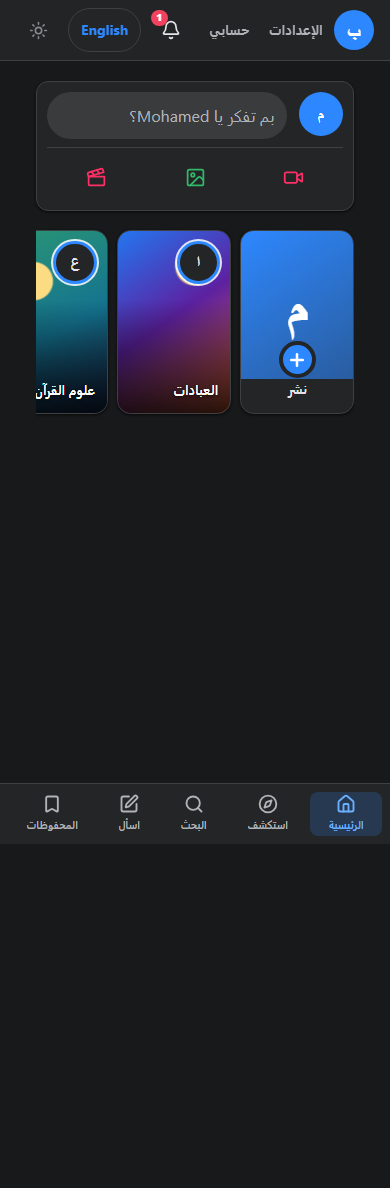
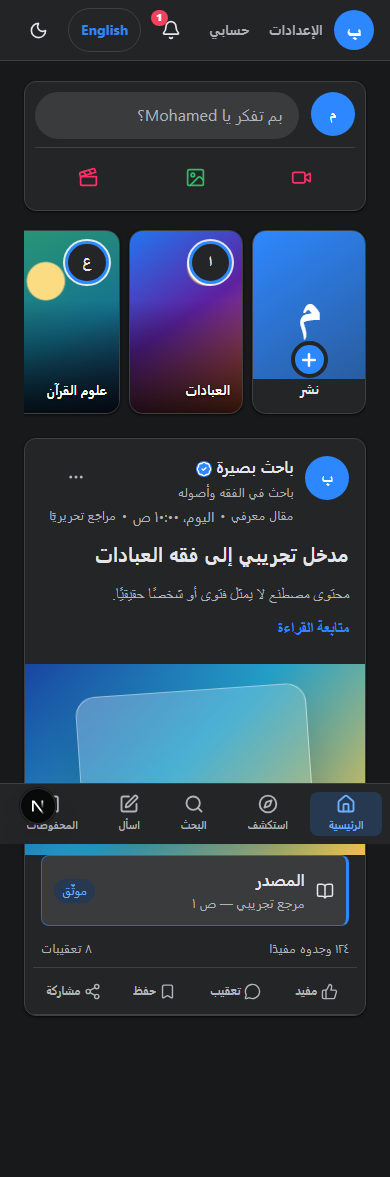
test(qa): verify composer dialog and feed spacing

diff --git a/e2e/stitch-visual.e2e.ts b/e2e/stitch-visual.e2e.ts
@@ -22,7 +22,7 @@ test.describe("Mounir Stitch shell visual contract", () => {
     await expect(actions.locator(".shell-control")).toHaveCount(2);
     await expect(actions.locator(".app-shell__notifications")).toHaveCount(1);
     await expect(page.locator("#shell-search-query")).toHaveAttribute("placeholder", /ابحث/);
-    await expect(page.locator("#feed-composer-input")).toHaveAttribute("placeholder", "بم تفكر يا Mohamed؟");
+    await expect(page.locator(".feed-composer__prompt")).toHaveText("بم تفكر يا Mohamed؟");
     await expect(page.locator(".feed-composer__quick-actions button")).toHaveCount(3);
     await expect(page.locator(".feed-composer__quick-actions button[aria-label='إنشاء مقطع']")).toBeVisible();
     await expect(page.locator(".feed-composer__quick-actions button[aria-label='إضافة صورة']")).toBeVisible();
@@ -99,6 +99,41 @@ test.describe("Mounir Stitch shell visual contract", () => {
     await query.press("Enter");
     await expect(page).toHaveURL(/\/search\?q=%D9%85%D8%AF%D8%AE%D9%84$/);
     await expect(page.locator("main h1")).toBeVisible();
+  });
+
+  test("composer prompt opens an accessible dialog and stories scroll without visible chrome", async ({ page, browserName }) => {
+    await page.setViewportSize({ width: 1280, height: 900 });
+    await page.goto("/");
+
+    const prompt = page.locator(".feed-composer__prompt");
+    await prompt.click();
+    const dialog = page.getByRole("dialog", { name: "إنشاء منشور" });
+    await expect(dialog).toBeVisible();
+    const editor = dialog.locator("#feed-composer-input");
+    await expect(editor).toBeFocused();
+    await expect(dialog.getByRole("button", { name: "نشر" })).toBeDisabled();
+    await editor.fill("مشاركة معرفية تجريبية للاختبار");
+    await expect(dialog.getByRole("button", { name: "نشر" })).toBeEnabled();
+    await page.keyboard.press("Escape");
+    await expect(dialog).toBeHidden();
+
+    const stories = page.locator(".feed-stories__track");
+    const storyStyle = await stories.evaluate((element) => {
+      const style = getComputedStyle(element);
+      return {
+        overflowX: style.overflowX,
+        scrollbarWidth: style.scrollbarWidth,
+        canScroll: element.scrollWidth > element.clientWidth,
+      };
+    });
+    expect(storyStyle.overflowX).toBe("auto");
+    expect(storyStyle.canScroll).toBe(true);
+    if (browserName === "firefox") expect(storyStyle.scrollbarWidth).toBe("none");
+
+    const padding = await page.locator(".app-shell__main").evaluate((element) =>
+      Number.parseFloat(getComputedStyle(element).paddingInlineStart),
+    );
+    expect(padding).toBeLessThanOrEqual(16);
   });
 
   test("shell landmarks remain unique and public discovery excludes private fixtures", async ({ page }) => {

diff --git a/e2e/playwright.localhost.config.ts b/e2e/playwright.localhost.config.ts
@@ -1,0 +1,14 @@
+import { defineConfig, devices } from "@playwright/test";
+
+export default defineConfig({
+  testDir: ".",
+  testMatch: "**/*.e2e.ts",
+  fullyParallel: true,
+  use: { baseURL: "http://localhost:3000", trace: "retain-on-failure" },
+  projects: [
+    { name: "chromium", use: { ...devices["Desktop Chrome"] } },
+    { name: "firefox", use: { ...devices["Desktop Firefox"] } },
+    { name: "webkit", use: { ...devices["Desktop Safari"] } },
+  ],
+  webServer: { command: "npm run dev", url: "http://localhost:3000", reuseExistingServer: true },
+});

diff --git a/workflow/handoffs/qa-agent-composer-dialog-feed-spacing-v1.md b/workflow/handoffs/qa-agent-composer-dialog-feed-spacing-v1.md
@@ -1,0 +1,45 @@
+# Handoff: qa-agent / composer-dialog-feed-spacing-v1
+
+- Status: `review`
+- Base ref: `ee67a72`
+- Result ref: `committed handoff; see repository HEAD`
+- Tasks completed: `QA-COMPOSER-DIALOG-001`
+
+## Delivered outputs
+
+| Path | Purpose |
+|---|---|
+| `e2e/stitch-visual.e2e.ts` | Dialog, focus, Escape, scrollbar, scrolling, and padding assertions |
+| `e2e/playwright.localhost.config.ts` | Avoids dev-chunk cross-origin mismatch in local QA |
+| `reports/qa/composer-dialog-feed-spacing-v1.md` | Focused browser evidence |
+| `reports/qa/screenshots/stitch-desktop-1440.png` | Updated desktop evidence |
+| `reports/qa/screenshots/stitch-mobile-390.png` | Updated mobile evidence |
+
+## Acceptance evidence
+
+| Criterion | Evidence/command | Result |
+|---|---|---|
+| Dialog behavior/accessibility | Focus, disabled/enabled publish, Escape assertions | pass |
+| Hidden scrollbar with scrolling | Computed style and scroll dimensions | pass |
+| Reduced center padding/no overflow | Computed padding and responsive gates | pass |
+| Cross-browser | Localhost config focused run | pass — 18/18 |
+
+## Decisions and assumptions
+
+- Localhost config is required because the persistent dev server blocks `127.0.0.1` chunks.
+
+## Open risks and deferred work
+
+- none
+
+## Cross-owner requests
+
+- none
+
+## Boundary check
+
+- Command: `./.github/scripts/Invoke-AgentBoundaryPS51.ps1 -AgentId qa-agent -BaseRef ee67a72`
+- Result: `pass`
+
+The agent stops after creating this handoff. Only the orchestrator may accept it and activate
+the successor.

diff --git a/reports/qa/composer-dialog-feed-spacing-v1.md b/reports/qa/composer-dialog-feed-spacing-v1.md
@@ -1,0 +1,7 @@
+# Composer dialog and feed spacing QA
+
+- Prompt opens a labelled modal with initial textarea focus.
+- Publish is disabled until content is present; Escape closes the modal.
+- Stories remain horizontally scrollable and Firefox reports `scrollbar-width: none`.
+- Social-feed main padding is at most 16px; document overflow passes at mobile/tablet/desktop.
+- Localhost cross-browser run: 18/18 passed.
